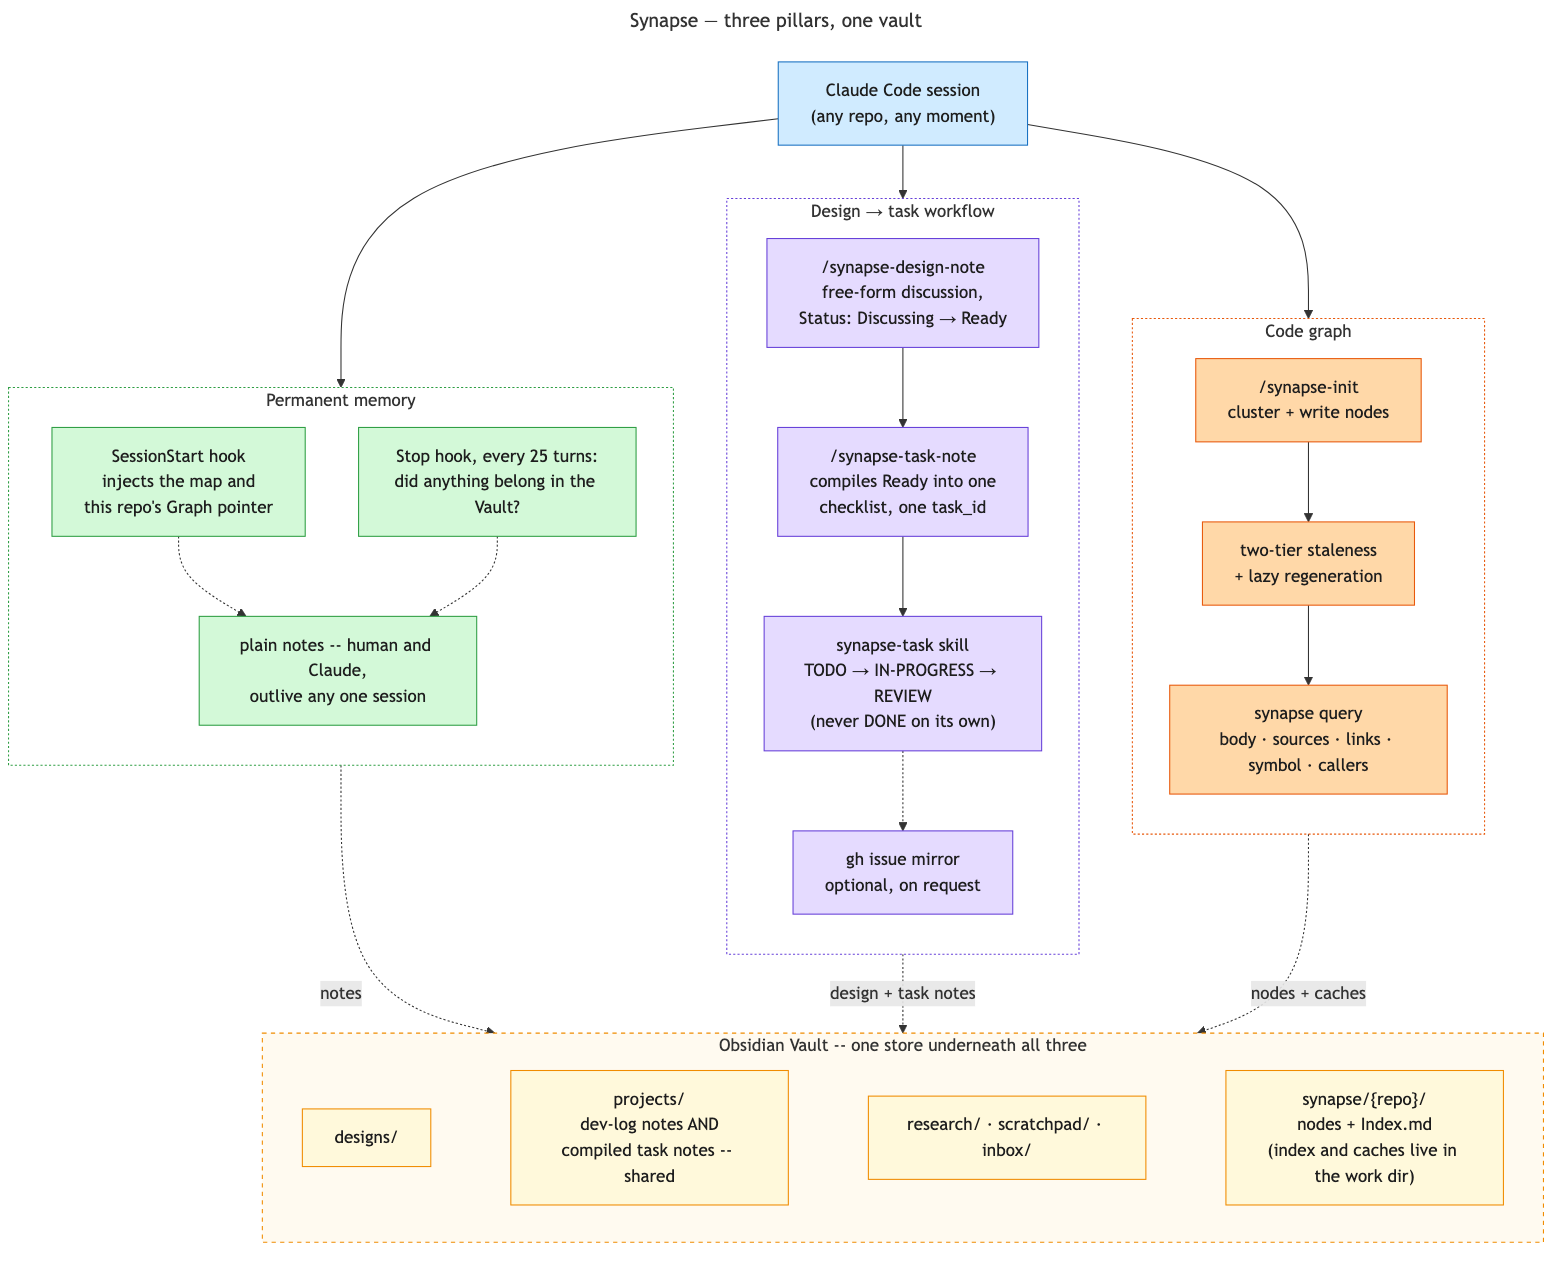
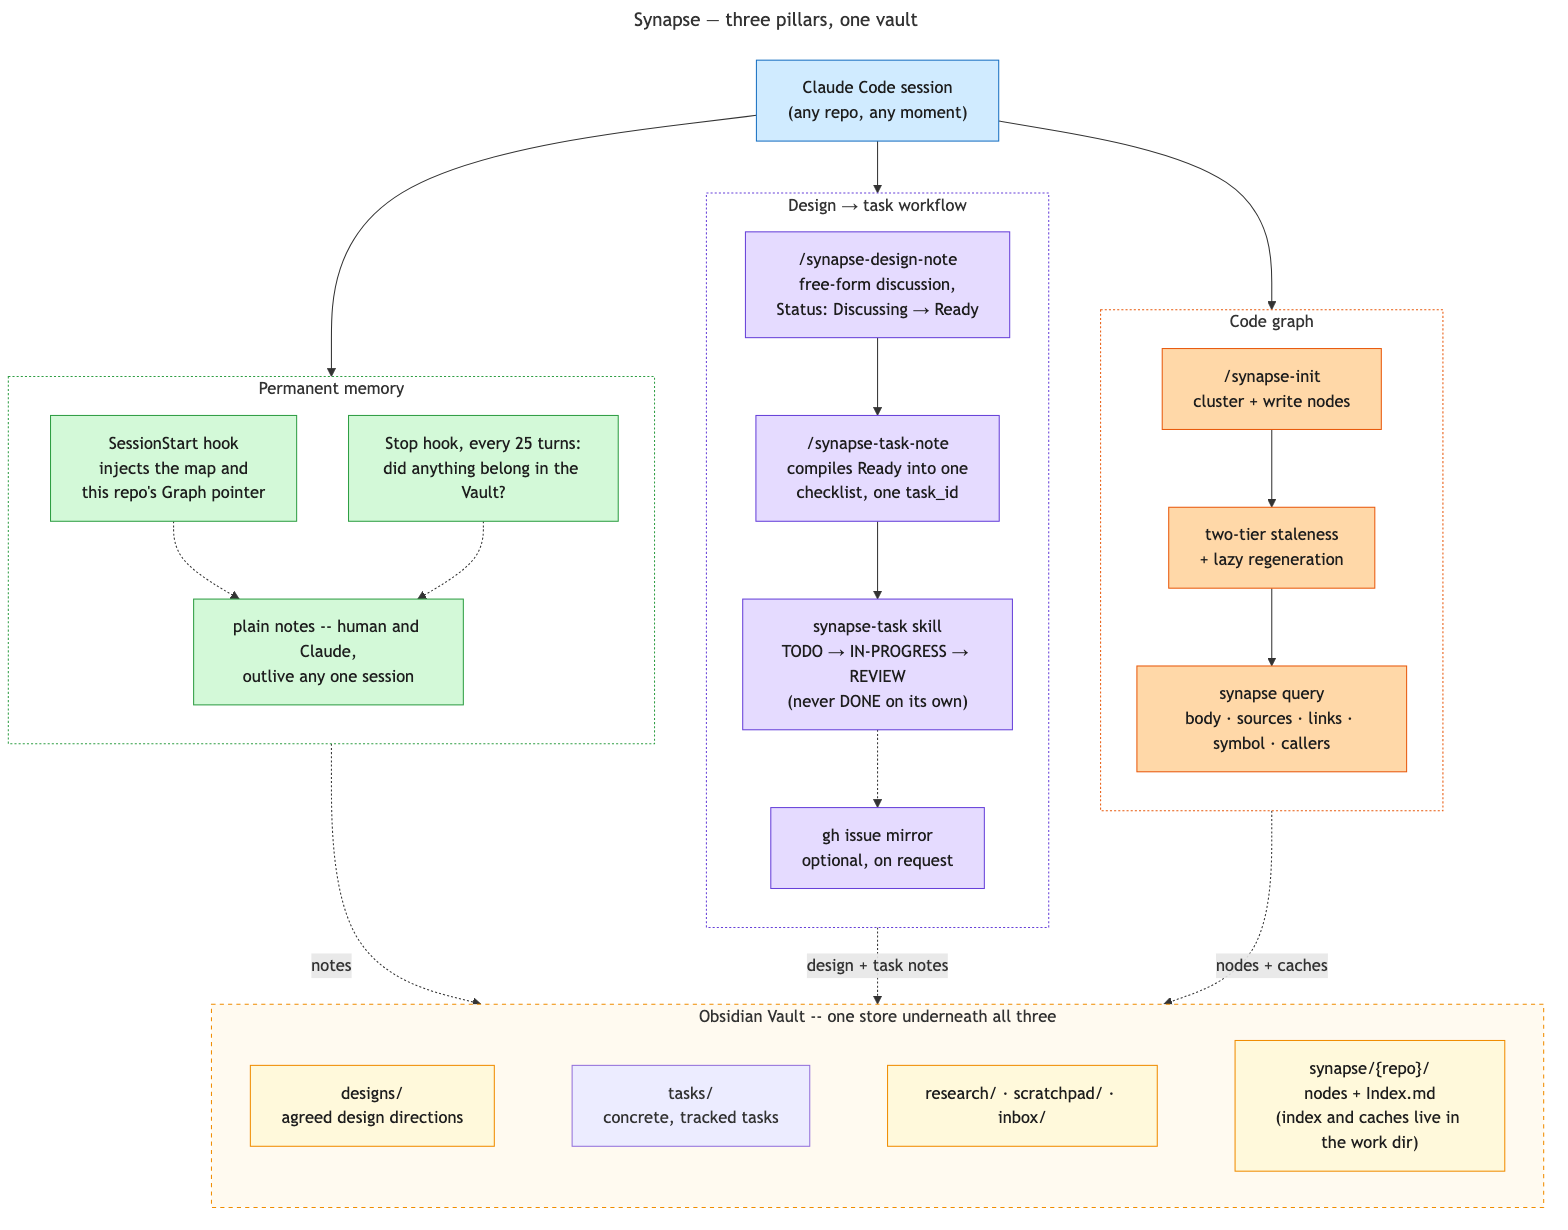
docs(synapse): rename vault folders projects/ -> tasks/, inbox goes freeform
Task notes get their own tasks/ folder instead of sharing projects/ with
untracked dev-log notes; tasks/ and designs/ now group one level deeper by
project. Bare-mode /synapse-note drops projects as a category and gains
inbox instead. Also retires inbox/'s numbered-note convention in favor of
freeform titles, documents an optional human-only inbox/{high,medium,low}/
triage layer, and regenerates the diagrams affected by the rename.

diff --git a/claude/commands/synapse-note.md b/claude/commands/synapse-note.md
@@ -8,8 +8,8 @@ If `$ARGUMENTS` starts with `--search` → **search mode**: see "Search mode" be
 
 Otherwise, split `$ARGUMENTS` on `--task`:
 
-- If `--task` is present → **task mode**: scaffold the note as a tracked task, following the `synapse-task` skill's conventions. Task notes always live under `projects/`.
-- Otherwise → **bare mode**: create an empty node (title + frontmatter only). Which category folder it lands in (`projects` / `research` / `scratchpad`) is resolved in "Choosing a category (bare mode only)" below.
+- If `--task` is present → **task mode**: scaffold the note as a tracked task, following the `synapse-task` skill's conventions. Task notes always live under `tasks/`.
+- Otherwise → **bare mode**: create an empty node (title + frontmatter only). Which category folder it lands in (`research` / `scratchpad` / `inbox`) is resolved in "Choosing a category (bare mode only)" below.
 
 The title is everything before `--task` (trimmed). Example:
 
@@ -91,20 +91,38 @@ they don't duplicate this resolution logic, just this file.
 
 ## Choosing a category (bare mode only)
 
-Task mode always uses `projects/` — skip this step entirely in task mode.
+Task mode always uses `tasks/` — skip this step entirely in task mode.
 
 In bare mode, ask the user which category the note belongs to, via a
 question with these options:
 
-- **projects** — description: "tied to a specific coding project"
-- **research** — description: "standalone research/reading notes, not tied to a project's dev log"
+- **research** — description: "general research about a topic, project-related or not"
 - **scratchpad** — description: "throwaway or in-progress, not yet worth filing"
+- **inbox** — description: "needs more input or reflection before it's settled"
 
-Resolve this to a `category` (`"projects"`, `"research"`, or `"scratchpad"`)
+Resolve this to a `category` (`"research"`, `"scratchpad"`, or `"inbox"`)
 before moving on to the creation steps below. No project-slug question is
-needed here — Obsidian filenames are the title itself, not a
-slug-prefixed timestamp, so there's no separate namespacing concern to
-resolve.
+needed here — Obsidian filenames are the title itself, not a slug-prefixed
+timestamp, so there's no separate namespacing concern to resolve. `inbox`
+always resolves to `inbox/{filename}.md` at root — never a priority
+subfolder; those (`inbox/{high,medium,low}/`, if the user has set them up)
+are triaged by hand, never by an agent.
+
+## Resolving the project folder (task mode only)
+
+Task notes are grouped one level deeper by project, `tasks/{project}/{filename}.md` — see
+`Index.md`'s `tasks/` section. The prefix (`ecs`, `sb`, ...) is not itself the folder name — it
+names the *task*, not the *project* — so resolve what project it belongs to, regardless of how
+the prefix became known (matched from the title, resolved in "Resolving a missing task ID" above,
+or supplied directly by a caller like `/synapse-task-note`):
+
+1. Reverse-lookup the prefix in `~/.claude/synapse-projects.conf` — find the line whose value
+   after `=` equals the prefix; its key is the project name.
+2. If no line matches, check `Index.md`'s `tasks/` section, which documents the prefix-to-project
+   mapping directly (e.g. `ecs-NNN` → `eon`).
+3. If still unresolved (a genuinely new prefix with no mapping anywhere), ask the user for the
+   project name and append `{project-name}={prefix}` to the conf file — so the next task note
+   under this prefix resolves without asking.
 
 ## Creating the note
 
@@ -140,9 +158,10 @@ resolve.
    ## Notes
 
    ```
-4. Write it with `mcp__obsidian__vault_write`, path
-   `{category}/{filename}.md` (category resolved above; always `projects`
-   in task mode).
+4. Write it with `mcp__obsidian__vault_write`. Task mode: path
+   `tasks/{project}/{filename}.md` (project resolved in "Resolving the
+   project folder" above). Bare mode: path `{category}/{filename}.md`
+   (category resolved above).
 
 ## Confirm
 

diff --git a/claude/synapse-claude.md b/claude/synapse-claude.md
@@ -47,16 +47,39 @@ a real yes/no answer, not a formality to wave past.
   of growing the original further. A handful of focused, well-linked notes
   is more useful later than one sprawling one — easier to search, easier to
   link into from elsewhere, easier to skim.
-- Folders: `projects/` (dev-log notes tied to a specific coding project),
-  `research/` (standalone research/reading notes), `scratchpad/`
-  (throwaway/in-progress notes), `inbox/` (doesn't cleanly fit the
-  others). Agents may create new folders beyond these, but folder depth is
-  capped at two levels (`folder/subfolder`, never deeper). Creating a new
-  top-level folder requires adding a matching entry to `Index.md` in the
-  same action — the index must never fall behind what's actually on disk.
-  If nothing about a note fits an existing or obviously-new category, put
-  it in `inbox/` rather than forcing a bad fit or inventing a folder for a
-  one-off.
+- Folders: `designs/` (design directions already discussed and agreed,
+  created by `/synapse-design-note`), `tasks/` (concrete tracked tasks,
+  created only by `/synapse-task-note` or `/synapse-note --task`, never
+  freeform), `research/` (general research on a topic, project-related or
+  not), `inbox/` (needs more input or reflection before it's settled —
+  including "find this and write it down" requests — or otherwise doesn't
+  cleanly fit elsewhere), `scratchpad/` (high-churn notes iterating on
+  whether an idea works at all, likely to be moved or deleted wholesale
+  once it's settled one way or the other). Agents may create new folders
+  beyond these, but folder depth is capped at two levels
+  (`folder/subfolder`, never deeper). Creating a new top-level folder
+  requires adding a matching entry to `Index.md` in the same action — the
+  index must never fall behind what's actually on disk. If nothing about
+  a note fits an existing or obviously-new category, put it in `inbox/`
+  rather than forcing a bad fit or inventing a folder for a one-off.
+- **`tasks/` and `designs/` both group one level deeper by project**,
+  using the two-level cap above: `tasks/{project}/` and
+  `designs/{project}/` (e.g. `tasks/eon/`, `designs/synapse/`). A design
+  note already carries its project as a `project:` frontmatter field, so
+  its subfolder is that value directly. A task note has no such field —
+  decide from its task-prefix family per `Index.md`'s `tasks/` section
+  (`ecs-NNN` → `eon`, `sb-NNN` → `synapse`) or, for a non-prefixed note,
+  from its title naming that same project. Either way, a note with no
+  established project family stays flat directly in `tasks/` or
+  `designs/` — don't invent a one-note subfolder.
+- **`inbox/` notes are always freeform-titled, never numbered.** This
+  includes the standalone-idea subtype ("worth doing someday" items that
+  surface mid-discussion) — it gets a plain descriptive title like any
+  other inbox note, not a sequential id. `inbox/{high,medium,low}/`
+  subfolders may exist as an optional, human-managed-only triage layer —
+  an agent never creates them, never infers a priority, and never moves a
+  note into or between them. Always write a new inbox note flat into
+  `inbox/` root; the user triages it by hand whenever they choose to.
 
 ## Reading and writing the vault
 

diff --git a/claude/commands/synapse-task-note.md b/claude/commands/synapse-task-note.md
@@ -31,7 +31,7 @@ Use those instead of reinventing a parallel view.
   nothing to compile. Reopen it with `/synapse-design-note \"{topic}\"` and mark it Ready if that's
   changed."
 - A task note already exists for this design (check the design note's `> Compiled task:` annotation,
-  or `search_query` for a `projects/` note linking to it) → show its current state (title, `status:`,
+  or `search_query` for a `tasks/` note linking to it) → show its current state (title, `status:`,
   checked/total) and ask: view it, or recompile (only on explicit confirmation — recompiling rewrites
   the checklist, so any progress on items that no longer exist is lost).
 
@@ -69,7 +69,9 @@ duplicate that scaffolding here, just supply its inputs:
 - **Project:** derive from the source design note's `project:` frontmatter — that prefix is already
   resolved (the design note went through `/synapse-design-note`'s resolution when it was created,
   which reads/appends `~/.claude/synapse-projects.conf`), so supply it directly instead of
-  re-deriving or re-asking. Never hardcode a specific project/prefix pair in this command's own
+  re-deriving or re-asking. This is the *prefix* (`ecs`, `sb`, ...), not the `tasks/{project}/`
+  folder name — `/synapse-note --task`'s own "Resolving the project folder" step turns it into
+  the folder name. Never hardcode a specific project/prefix pair in this command's own
   instructions — the conf file is machine-local and deliberately outside the portable
   Synapse package, so projects from unrelated contexts (e.g. personal vs. work) must
   never end up in the same place.
@@ -119,7 +121,7 @@ Claude: [reads designs/{PROJECT} — Rollup direct storage.md, Status: Ready]
 
         Project already known: {PROJECT} → {prefix}-005.
 
-        Created: projects/{prefix}-005 — Rollup direct storage implementation.md
+        Created: tasks/{PROJECT}/{prefix}-005 — Rollup direct storage implementation.md
         Linked back from designs/{PROJECT} — Rollup direct storage.md.
 
         Status transitions happen automatically via the synapse-task skill once you start work.

diff --git a/docs/synapse-vault.md b/docs/synapse-vault.md
@@ -38,11 +38,11 @@ Every note lands in one of these, chosen by what kind of thing it is, not what p
 
 | Folder | What goes there |
 |---|---|
-| `projects/` | Dev-log notes and compiled task notes tied to a specific coding project |
-| `research/` | Standalone research/reading notes, not tied to one project's dev log |
-| `scratchpad/` | Throwaway or in-progress notes, not yet worth filing anywhere else |
-| `inbox/` | Doesn't cleanly fit the others — reviewed periodically, meant to stay small |
-| `designs/` | Cross-project design discussions (see [design-task-workflow.md](design-task-workflow.md)) |
+| `tasks/` | Concrete, tracked tasks — created only via `/synapse-task-note` or `/synapse-note --task`, never freeform |
+| `research/` | General research on a topic, project-related or not |
+| `scratchpad/` | High-churn notes iterating on whether an idea works at all, not yet worth filing anywhere else |
+| `inbox/` | Needs more input or reflection before it's settled, or otherwise doesn't cleanly fit the others — reviewed periodically, meant to stay small |
+| `designs/` | Cross-project design discussions, already agreed rather than tasks that execute them (see [design-task-workflow.md](design-task-workflow.md)) |
 | `synapse/` | Per-repo code-graph namespaces: node notes plus the machine-only `_manifest.tsv` and `_profile.txt`. The reverse index and the caches are not here -- they are derived and live in the work dir (see [synapse-graph.md](synapse-graph.md)) |
 
 Folder depth is capped at two levels. A new top-level folder requires adding a matching section to

diff --git a/claude/skills/synapse-node-authoring/SKILL.md b/claude/skills/synapse-node-authoring/SKILL.md
@@ -10,7 +10,8 @@ is the `synapse-node` skill's job, one node, triggered by a stale read). Today's
 `/synapse-init`'s node-authoring step. `/synapse-rebuild-full` inherits this for free — it
 delegates to `/synapse-init`'s procedure by reference rather than repeating it.
 `/synapse-rebuild-diff`'s *re-orient* class is a natural second caller (see the design's own
-Open Questions and `inbox-005` in the vault) but is not wired to this skill yet — it still
+Open Questions and the vault's `inbox/wire synapse-rebuild-diff's re-orient class onto the
+parallel-authoring skill` note) but is not wired to this skill yet — it still
 gathers its facts ad hoc rather than through `rank --lists`/`link-graph`, and needs that fixed
 first.
 

diff --git a/claude/skills/synapse-node/SKILL.md b/claude/skills/synapse-node/SKILL.md
@@ -139,7 +139,7 @@ needs one.
      enumerating fields by hand is how `summary` and `commit` get silently dropped — which then breaks
      the next `synapse build-project-index` run, far from the cause.
    - **`## Notes` is human-authored only.** Never write into it — not at regeneration, not to record
-     what you just did. (Task notes in `projects/` are a different artifact: the `synapse-task` skill *does*
+     what you just did. (Task notes in `tasks/` are a different artifact: the `synapse-task` skill *does*
      append there. Do not carry that habit into a Synapse node.)
    - If the node's `summary` or title changed, rebuild the index so the map matches:
      `~/.synapse build-project-index`.
